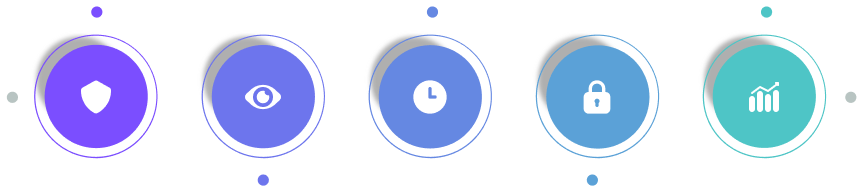
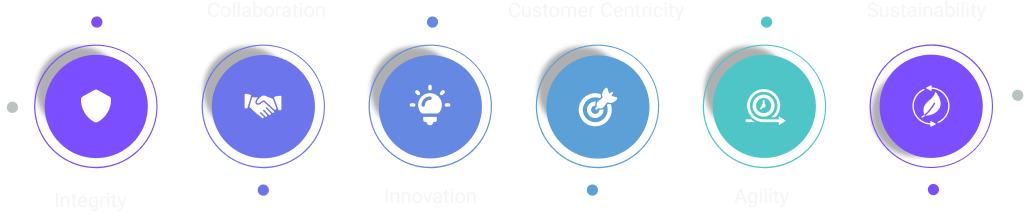
about us page changes

diff --git a/src/pages/AboutPage.tsx b/src/pages/AboutPage.tsx
@@ -5,7 +5,7 @@ const AboutPage: React.FC = () => {
   return (
     <div className="AboutPage bg-[#0F071D] min-h-screen pt-[88px]">
       {/* Hero Banner Section */}
-      <section className="py-[60px]">
+      <section className="pt-[60px]">
         <div className="max-w-[1440px] mx-auto px-[120px]">
           <div className="w-full h-[300px] rounded-[16px] overflow-hidden">
             <img 
@@ -17,45 +17,107 @@ const AboutPage: React.FC = () => {
         </div>
       </section>
 
+      {/* Title Section */}
+      <section className="pt-[60px] pb-[24px]">
+        <div className="max-w-[1440px] mx-auto px-[120px]">
+          <h1 
+            className="text-[#F5F5F5] font-black text-[40px] leading-[1.35em] text-center mb-[24px]"
+            style={{ fontFamily: 'Roboto' }}
+          >
+            About Us
+          </h1>
+          <p 
+            className="text-[#B0B0B0] font-normal text-[16px] leading-[1.75em] text-center max-w-[980px] mx-auto mb-[48px]"
+            style={{ fontFamily: 'Roboto' }}
+          >
+            At Relique, collaboration is at the core of what we do: it should be a strategic advantage. We bring businesses together through technology, delivering solutions that align with real market needs and create measurable impact. We specialize in helping start-ups and mid-sized organizations bridge technology gaps, connect with their customers, and scale confidently in a digital-first world. By combining innovation, partnerships, and deep industry expertise, we design solutions that empower our clients to grow faster, smarter, and stronger.
+          </p>
+          
+          <div className="flex justify-center">
+            <Button to="/contact" variant="primary">
+              Work With Us
+            </Button>
+          </div>
+        </div>
+      </section>
+
       {/* Main Content Section */}
       <section className="py-[60px]">
         <div className="max-w-[1440px] mx-auto px-[120px]">
-          <div className="flex justify-between items-start gap-[118px]">
+          <div className="flex justify-between items-center gap-[118px]">
             {/* Left Content */}
             <div className="flex-1 max-w-[635px]">
-              <h1 
-                className="text-[#F5F5F5] font-medium text-[48px] leading-[1.125em] mb-[32px]"
+              <h2 
+                className="text-[#F5F5F5] font-black text-[40px] leading-[1.35em] mb-[10px]"
                 style={{ fontFamily: 'Roboto' }}
               >
-                About us<br />
                 Who We Are
-              </h1>
+              </h2>
               
               <p 
-                className="text-[#B0B0B0] font-normal text-[16px] leading-[1.75em] mb-[48px]"
+                className="text-[#B0B0B0] font-normal text-[16px] leading-[1.75em] mb-[24px]"
                 style={{ fontFamily: 'Roboto' }}
               >
-                At Relique Consultants, we specialize in IT strategy, digital transformation, and stakeholder coordination. Our mission is to bridge the gap between technology and business objectives, ensuring seamless integration and optimal performance across all organizational levels.
+                We are a team of passionate consultants, technologists, and problem-solvers committed to unlocking the potential of every business we partner with. At Relique, collaboration is at the core of what we do:
               </p>
-              
-              <Button to="/contact" variant="primary">
-                Work With Us
-              </Button>
+
+              {/* Bullet Points with Arrows */}
+              <div className="space-y-[0px]">
+                <div className="flex items-center gap-[18px]">
+                  <div className="flex-shrink-0 w-[12px] h-[12px]">
+                    <svg width="12" height="12" viewBox="0 0 12 12" fill="none" xmlns="http://www.w3.org/2000/svg">
+                      <path d="M0.75 0.14L0.75 11.86L11.25 6L0.75 0.14Z" fill="#7B4EFF"/>
+                    </svg>
+                  </div>
+                  <p 
+                    className="text-[#F5F5F5] font-medium text-[16px] leading-[2.5em]"
+                    style={{ fontFamily: 'Roboto' }}
+                  >
+                    We listen first to understand your challenges.
+                  </p>
+                </div>
+                <div className="flex items-center gap-[18px]">
+                  <div className="flex-shrink-0 w-[12px] h-[12px]">
+                    <svg width="12" height="12" viewBox="0 0 12 12" fill="none" xmlns="http://www.w3.org/2000/svg">
+                      <path d="M0.75 0.14L0.75 11.86L11.25 6L0.75 0.14Z" fill="#7B4EFF"/>
+                    </svg>
+                  </div>
+                  <p 
+                    className="text-[#F5F5F5] font-medium text-[16px] leading-[2.5em]"
+                    style={{ fontFamily: 'Roboto' }}
+                  >
+                    We curate solutions that fit your goals, not just trends.
+                  </p>
+                </div>
+                <div className="flex items-center gap-[18px]">
+                  <div className="flex-shrink-0 w-[12px] h-[12px]">
+                    <svg width="12" height="12" viewBox="0 0 12 12" fill="none" xmlns="http://www.w3.org/2000/svg">
+                      <path d="M0.75 0.14L0.75 11.86L11.25 6L0.75 0.14Z" fill="#7B4EFF"/>
+                    </svg>
+                  </div>
+                  <p 
+                    className="text-[#F5F5F5] font-medium text-[16px] leading-[2.5em]"
+                    style={{ fontFamily: 'Roboto' }}
+                  >
+                    We enable growth through the right mix of technology, strategy, and execution.
+                  </p>
+                </div>
+              </div>
             </div>
 
             {/* Right Vision Card */}
             <div className="flex-shrink-0">
               <div 
-                className="relative rounded-[16px] border border-[rgba(123,78,255,0.5)] shadow-[0px_0px_8px_2px_rgba(123,78,255,0.2)] w-[447px] h-[340px]"
+                className="relative rounded-[16px] border border-[rgba(123,78,255,0.5)] shadow-[0px_0px_8px_2px_rgba(123,78,255,0.2)] w-[447px] p-[40px]"
               >
                 {/* Vision Icon */}
-                <div className="absolute left-[40px] top-[42px] w-[100px] h-[100px] flex items-center justify-center">
-                  <img src="/images/icons/our-vision.svg" alt="Our Vision" />
+                <div className="w-[103.47px] h-[103.47px] mb-[24px]">
+                  <img src="/images/icons/our-vision.svg" alt="Our Vision" className="w-full h-full" />
                 </div>
                 
                 {/* Vision Title */}
                 <h3 
-                  className="absolute left-[40px] top-[146px] w-[150px] h-[40px] text-[#F5F5F5] font-medium text-[24px] leading-[1.67em]"
+                  className="text-[#F5F5F5] font-medium text-[32px] leading-[1.69em] mb-[16px]"
                   style={{ fontFamily: 'Roboto' }}
                 >
                   Our Vision
@@ -63,10 +125,10 @@ const AboutPage: React.FC = () => {
                 
                 {/* Vision Text */}
                 <p 
-                  className="absolute left-[40px] top-[202px] w-[366px] h-[96px] text-[#F5F5F5] font-normal text-[16px] leading-[1.5em]"
+                  className="text-[#F5F5F5] font-normal text-[16px] leading-[1.75em]"
                   style={{ fontFamily: 'Roboto' }}
                 >
-                  To be the leading consultancy that transforms businesses through innovative technology solutions and strategic insights.
+                  To be the indispensable strategic partner that empowers businesses to harness technology, driving unprecedented growth and lasting competitive advantage
                 </p>
               </div>
             </div>
@@ -75,34 +137,29 @@ const AboutPage: React.FC = () => {
       </section>
 
       {/* Core Values Section */}
-      <section className="py-[120px]">
+      <section className="py-[60px] mb-[60px]">
         <div className="max-w-[1440px] mx-auto px-[120px]">
-          <div className="flex items-center gap-[80px]">
-            {/* Left Side - Text Content */}
-            <div className="flex-1">
-              <h2 
-                className="text-[#F5F5F5] font-medium text-[40px] leading-[1.35em] mb-[32px]"
-                style={{ fontFamily: 'Roboto' }}
-              >
-                Our<br />
-                Core Values
-              </h2>
-              <p 
-                className="text-[#B0B0B0] font-normal text-[16px] leading-[1.75em] max-w-[904px] mb-[48px]"
-                style={{ fontFamily: 'Roboto' }}
-              >
-                Guiding principles that define how we work and deliver results.
-              </p>
-            </div>
+          {/* Title */}
+          <h2 
+            className="text-[#F5F5F5] font-medium text-[40px] leading-[1.35em] text-center mb-[10px]"
+            style={{ fontFamily: 'Roboto' }}
+          >
+            Our Core Values
+          </h2>
+          <p 
+            className="text-[#B0B0B0] font-normal text-[16px] leading-[1.75em] text-center max-w-[904px] mx-auto mb-[48px]"
+            style={{ fontFamily: 'Roboto' }}
+          >
+            Guiding principles that define how we work and deliver results.
+          </p>
 
-            {/* Right Side - Core Values Image */}
-            <div className="flex-shrink-0">
-              <img 
-                src="/images/core-values.png" 
-                alt="Core Values Illustration" 
-                className="w-[860px] h-auto object-contain"
-              />
-            </div>
+          {/* Core Values Image */}
+          <div className="flex justify-center">
+            <img 
+              src="/images/core-values.png" 
+              alt="Core Values Illustration" 
+              className="h-auto object-contain"
+            />
           </div>
         </div>
       </section>
